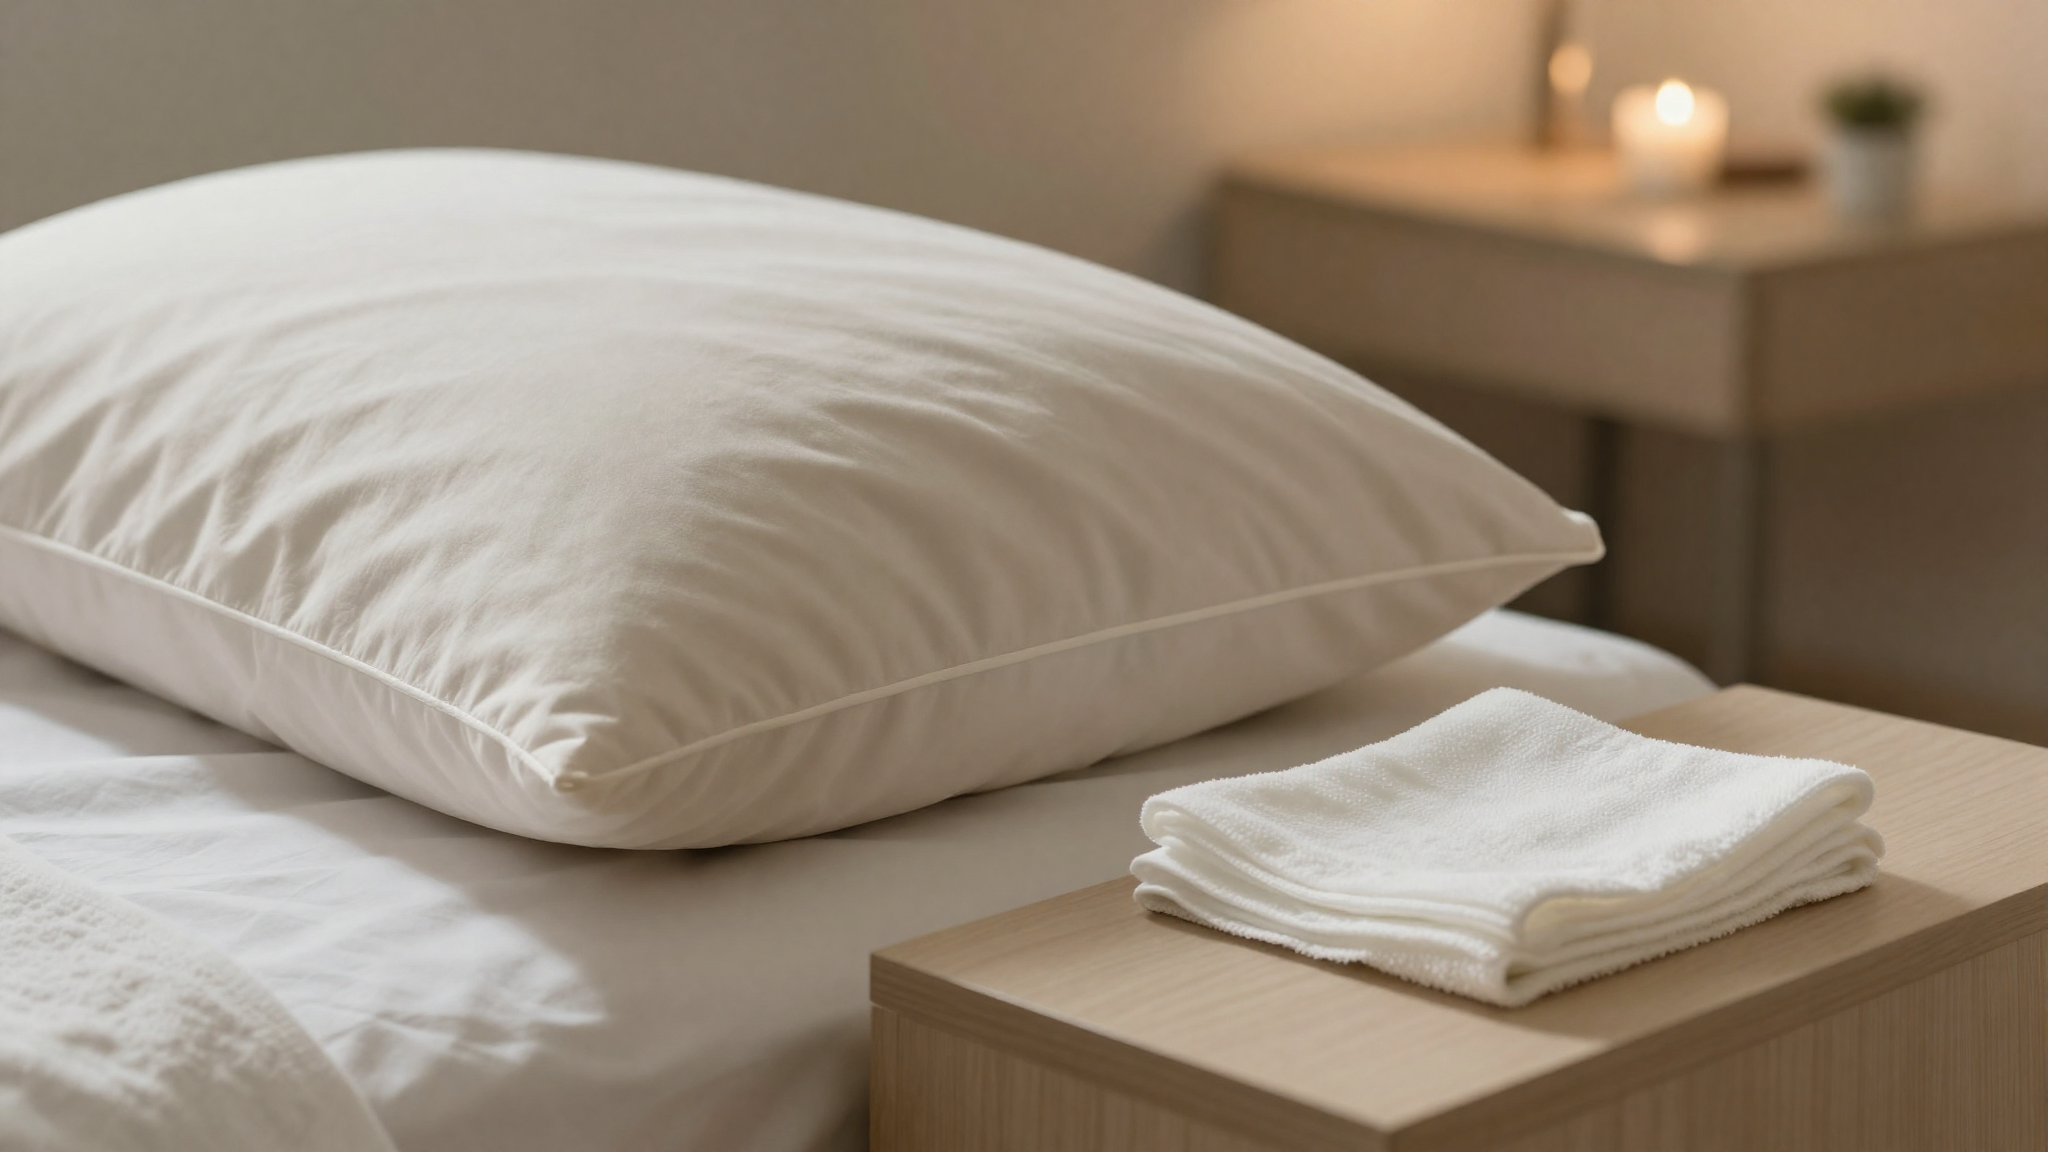
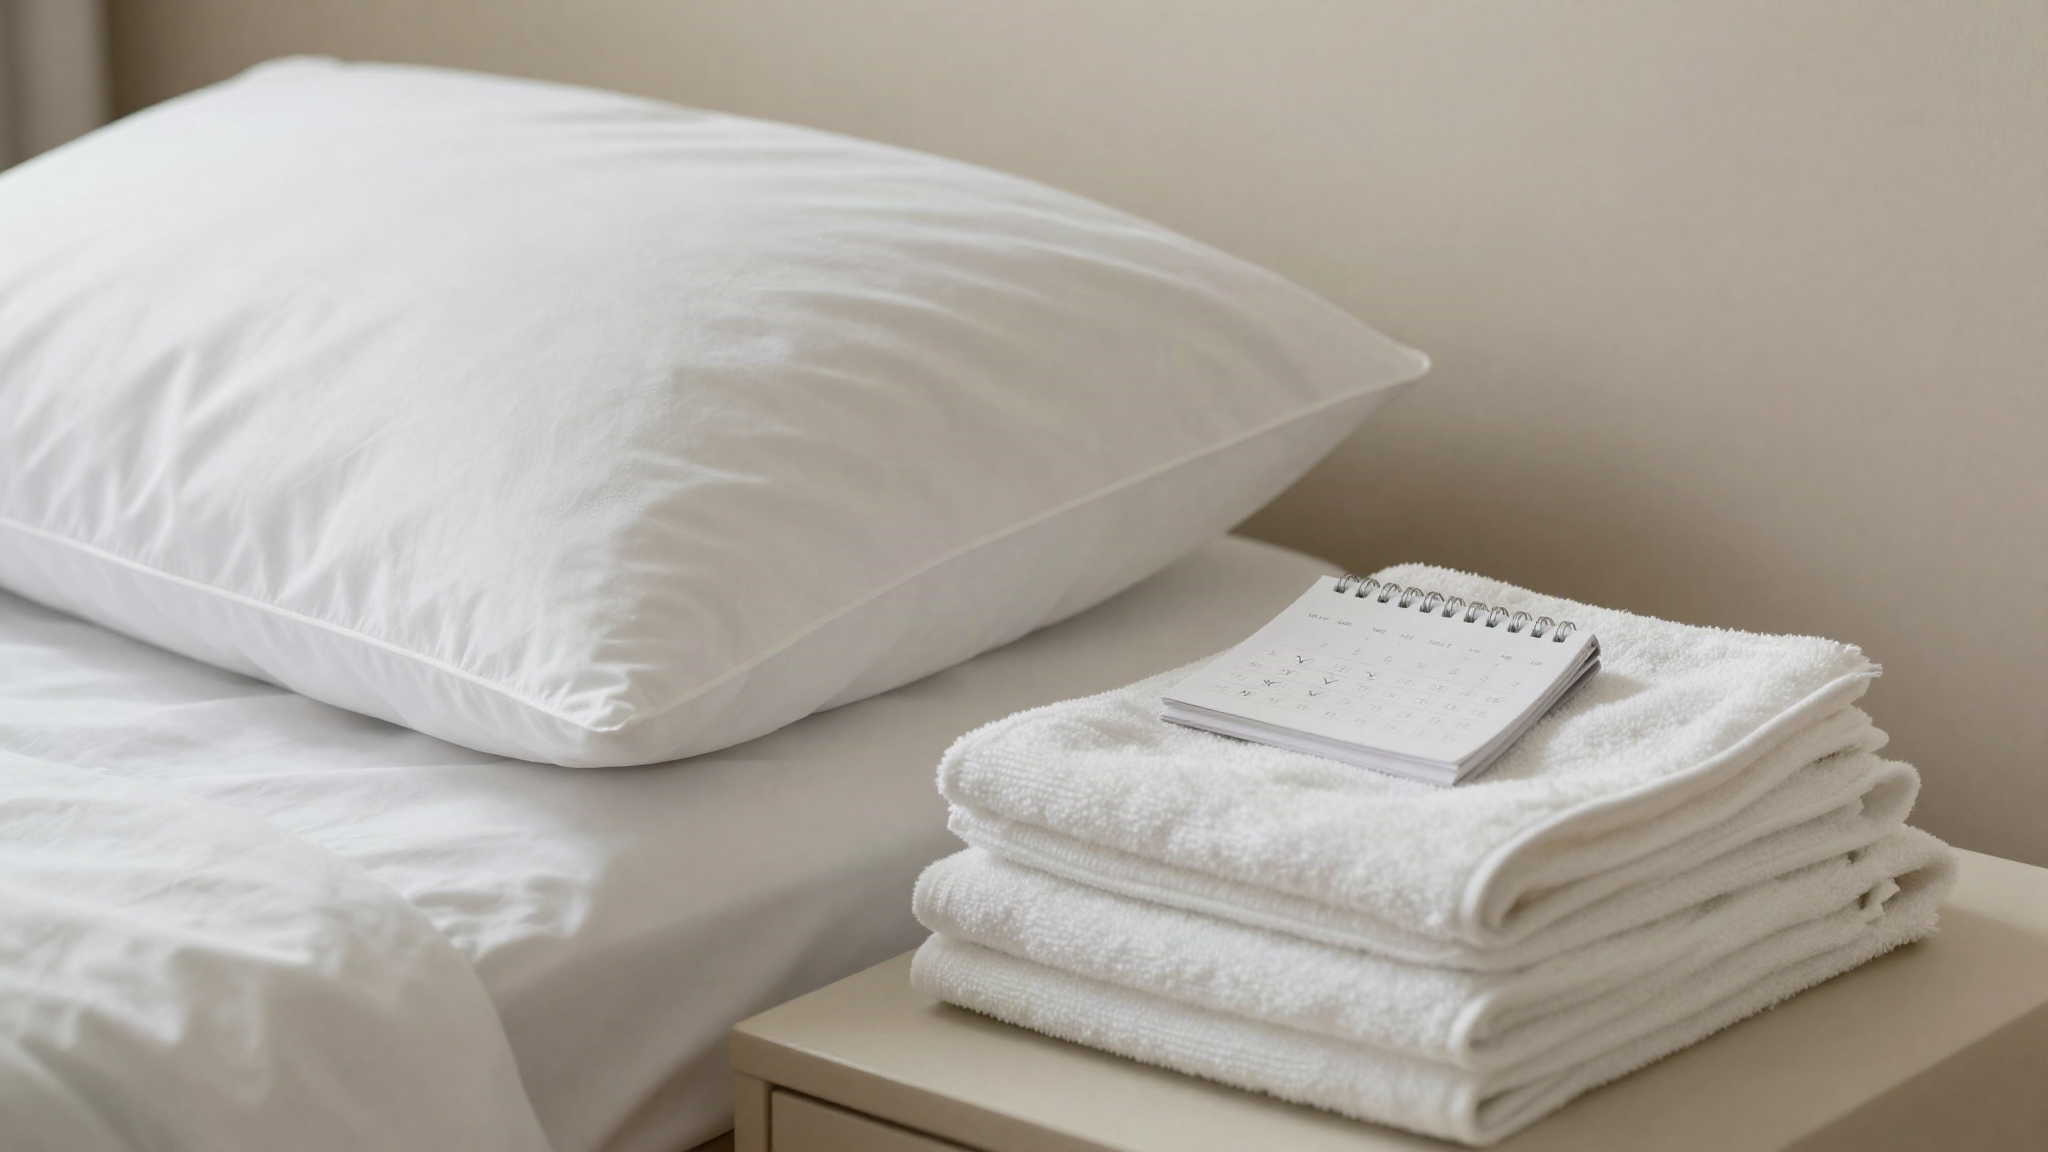
blog: gera capa propria para recuperacao-transplante-capilar
O artigo recuperacao-transplante-capilar.tsx estava com coverImage.src
apontando para o arquivo de transplante-capilar-doi (mesma imagem
exibida em /blog para os dois artigos, reforcando a impressao de que
sao o mesmo conteudo). Mesmo padrao de bug ja corrigido no PR #73 para
tecnica-fue-transplante-capilar.

Gerada imagem nova (still-life editorial de travesseiro, toalhas
dobradas e calendario de cuidados, sem rosto, conceito de recuperacao
pos-operatoria) e atualizado coverImage.src para o path correto do
proprio artigo.

diff --git a/content/recuperacao-transplante-capilar.tsx b/content/recuperacao-transplante-capilar.tsx
@@ -8,13 +8,13 @@ export const meta: PostMeta = {
   title: "Recuperação do transplante capilar",
   description: "Veja como é a recuperação do transplante capilar, cuidados nos primeiros 14 dias, lavagem, sono, academia, boné, edema e sinais de alerta.",
   publishedAt: "2026-07-25",
-  updatedAt: "2026-07-25",
+  updatedAt: "2026-07-31",
   readingTime: 9,
   category: "Transplante capilar",
   author: AUTHOR,
   coverImage: {
-    src: "/blog/transplante-capilar-doi/cover.jpg",
-    alt: "Imagem editorial ilustrando o tema: Recuperação do transplante capilar: cuidados e cronograma",
+    src: "/blog/recuperacao-transplante-capilar/cover.jpg",
+    alt: "Travesseiro branco, toalhas dobradas e um pequeno calendário com marcações sobre um criado-mudo, representando o cronograma de cuidados na recuperação do transplante capilar",
   },
 };
 
